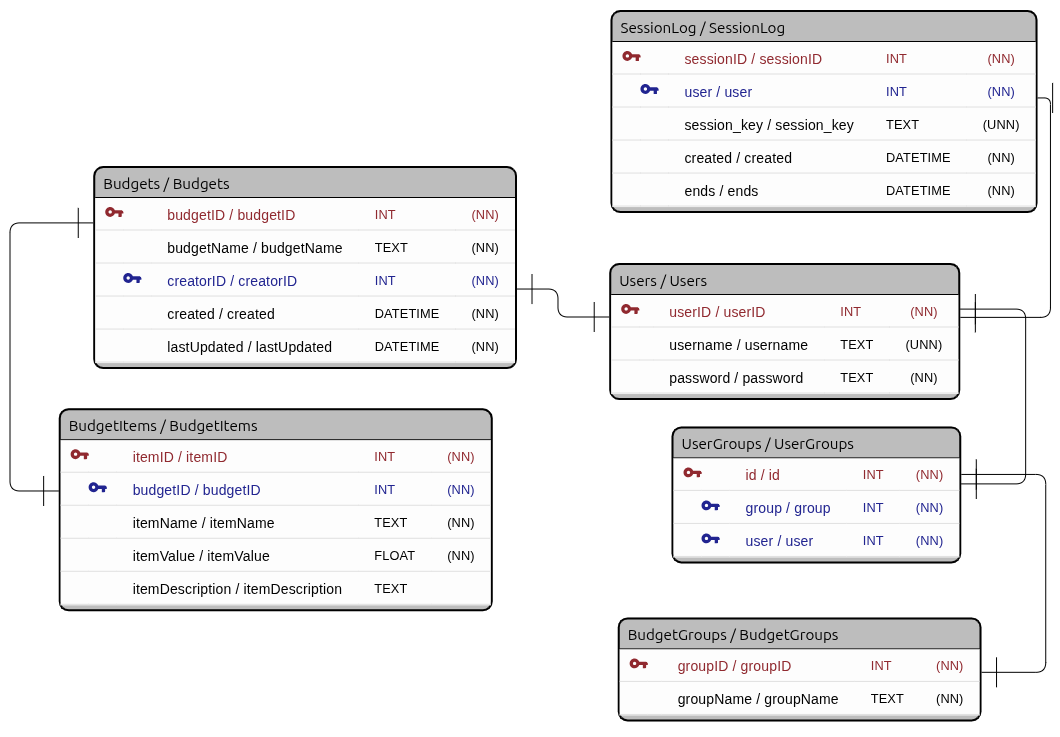
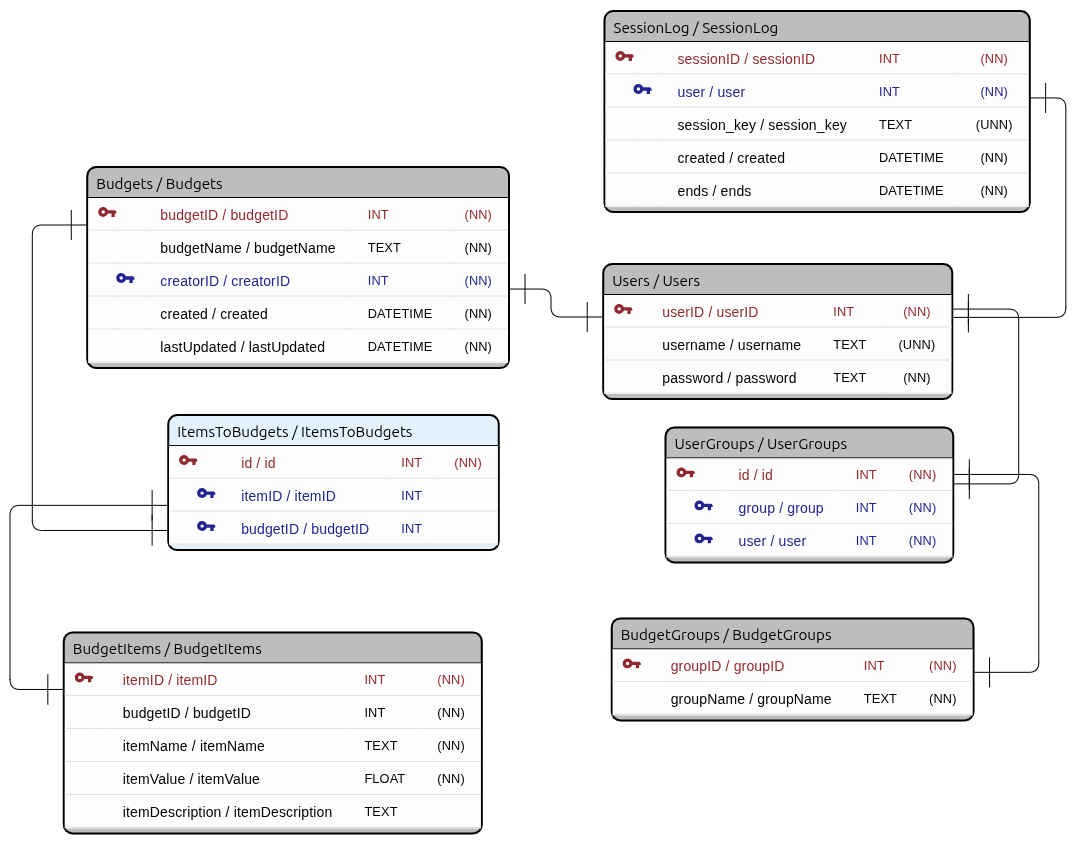
Switched the connection domain

diff --git a/frontend/JS/connection.js b/frontend/JS/connection.js
@@ -1,5 +1,5 @@
 const deploy_connection = "api.tracky.boldbyte.dev/";
-const dev_connection = "http://localhost:8010/";
+const dev_connection = "api.tracky.boldbyte.dev/";
 
 async function user_signin(username, password) {
   try {
